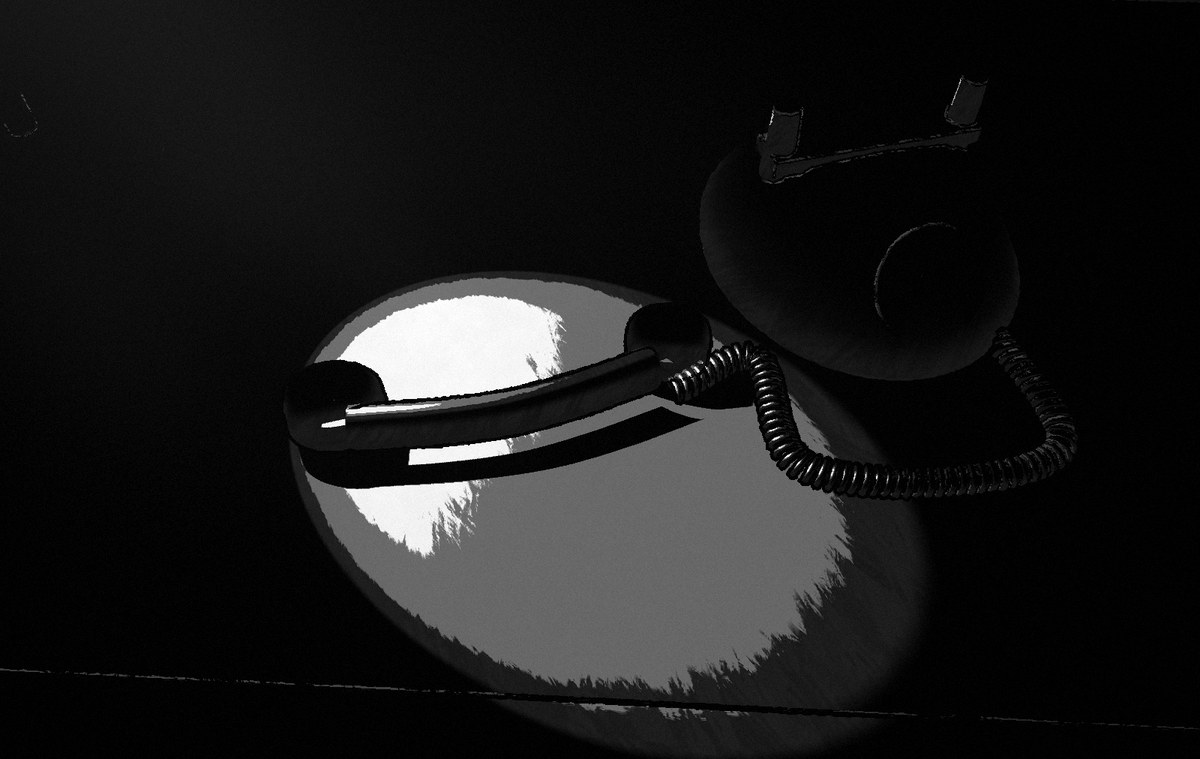
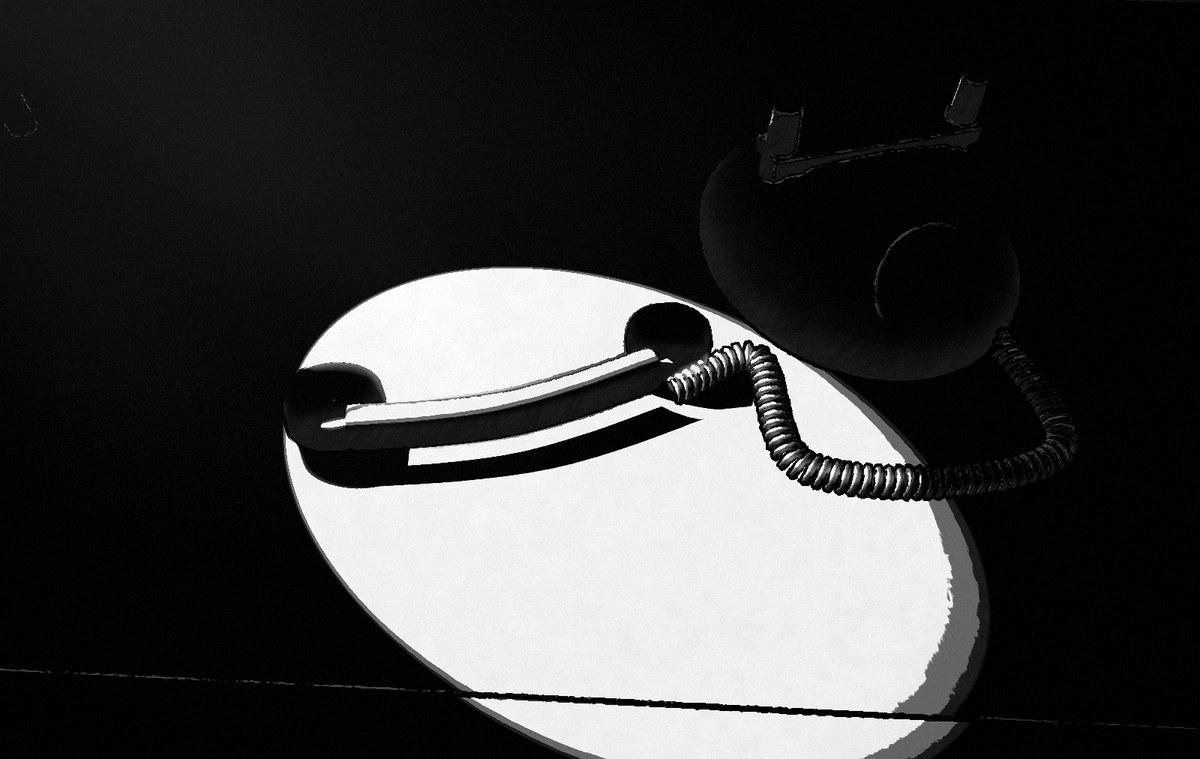
C11: the opening's stills (the telephone on a hard white pool, the receiver an ink shape; the windscreen lit by the neon: the drops, the wiper's arc, my knuckles on the wheel); III's corridor darker between its globes, their pools harder

Changed region(s): [[0.2158, 0.3333, 0.8325, 1.0]]

diff --git a/src/debug/shots/C9_stills.js b/src/debug/shots/C9_stills.js
@@ -30,10 +30,10 @@ function place(stage, kind, at, { yaw = 0, rx = 0, rz = 0, variant = null, scale
   return p;
 }
 // a hard light: a spot lamp of the stage's pool (its cone seen or not)
-function spot(stage, from, to, { half = 0.3, intensity = 60, cone = true, strength = 0.6, shadow = null, distance = null } = {}) {
+function spot(stage, from, to, { half = 0.3, intensity = 60, cone = true, strength = 0.6, shadow = null, distance = null, penumbra = 0.35 } = {}) {
   const ax = to.clone().sub(from).normalize();
   const L = stage.lamps.addCustom({ head: from.clone(), axis: ax, height: from.distanceTo(to) * 1.2, half, real: true, strength, tag: 'still' });
-  Object.assign(L.light, { intensity, angle: half, penumbra: 0.35, distance: distance ?? from.distanceTo(to) * 3 });
+  Object.assign(L.light, { intensity, angle: half, penumbra, distance: distance ?? from.distanceTo(to) * 3 });
   L.cone.visible = cone;
   L.priority = 10;
   if (shadow) L.shadow = shadow;
@@ -42,13 +42,13 @@ function spot(stage, from, to, { half = 0.3, intensity = 60, cone = true, streng
 
 // ---- 1. opening: A TIP. AMES. --------------------------------------------------------------
 // a desk lamp of the props, its light the pool's: from its bulb along its shade
-function deskLamp(S, at, yaw, { intensity = 30, half = 0.62, strength = 0.55, cone = true, reach = 1.2, target = null } = {}) {
+function deskLamp(S, at, yaw, { intensity = 30, half = 0.62, strength = 0.55, cone = true, reach = 1.2, target = null, penumbra = 0.35 } = {}) {
   if (target) yaw = Math.atan2(target.x - at.x, target.z - at.z);
   const p = place(S, 'deskLamp', at, { yaw });
   p.updateMatrixWorld(true);
   const head = p.userData.head.clone().applyMatrix4(p.matrixWorld);
   const ax = target ? target.clone().sub(head).normalize() : p.userData.axis.clone().transformDirection(p.matrixWorld);
-  const L = spot(S, head, head.clone().addScaledVector(ax, reach), { half, intensity, strength, cone, shadow: { radius: 2.5, near: 0.03 } });
+  const L = spot(S, head, head.clone().addScaledVector(ax, reach), { half, intensity, strength, cone, penumbra, shadow: { radius: 2.5, near: 0.03 } });
   return { prop: p, lamp: L };
 }
 // a coiled cord lying along a path (points on the desk): a helix round it
@@ -84,14 +84,20 @@ function tip(stage, camera, controller, game) {
   // the lamp on the left of the desk, its cone down onto the desk behind the
   // handset (the handset's shape black against the pool) and the phone
   const pool = V(N('px', -0.04), top, D.z + N('pz', 0.1));
-  deskLamp(S, V(N('lx', -0.42), top, D.z + N('lz', -0.12)), 0, { intensity: N('li', 6), half: N('lh', 0.3), reach: 0.6, strength: 0.8, target: pool });
+  // ([C11] a hard pool: 6 -> 26, its edge 0.35 -> 0.08 - the art director
+  // read the pool mid-grey; paper white now, ink round it)
+  deskLamp(S, V(N('lx', -0.42), top, D.z + N('lz', -0.12)), 0, { intensity: N('li', 26), half: N('lh', 0.3), reach: 0.6, strength: 0.8, target: pool, penumbra: N('lp', 0.08) });
   const base = place(S, 'deskPhone', V(N('bx', 0.17), top, D.z + N('bz', -0.07)), { yaw: N('by', 0.3), variant: 'empty' });
   // (the dome's gloss a little duller: the lamp's spot on it was the brightest thing in the panel)
   base.traverse((o) => { if (o.isMesh && o.material && o.material.roughness != null) { o.material = o.material.clone(); o.material.roughness = Math.max(o.material.roughness, N('br', 0.55)); } });
   // the handset across the desk on its side (its profile up to the eye:
   // the bar and the two cups), the ear cup to the left
   const yw = Math.PI / 2 + N('hy', 0.3);
-  place(S, 'handset', hs, { yaw: yw, rz: N('hr', Math.PI / 2) });
+  const hset = place(S, 'handset', hs, { yaw: yw, rz: N('hr', Math.PI / 2) });
+  // ([C11] matte: its bakelite's gloss printed as pale stripes along the
+  // bar and the cups, and the shape read crude - now an ink shape on the
+  // white pool, the lamp's one rim along its top)
+  hset.traverse((o) => { if (o.isMesh && o.material && o.material.roughness != null) { o.material = o.material.clone(); o.material.roughness = N('hm', 0.9); if (o.material.envMapIntensity != null) o.material.envMapIntensity = 0.05; o.material.color.multiplyScalar(0.6); } });
   // the cord from the mouth cup back to the base, coiled, lying on the desk
   const ax = V(Math.sin(yw), 0, Math.cos(yw));
   const m = hs.clone().addScaledVector(ax, 0.1); m.y = top;
@@ -323,14 +329,22 @@ function neon(stage, camera, controller, game) {
   darkStreet(S);
   neonSign(S, V(-95.3, N('ny', 2.75), N('nz', 19)), V(0, 0, 1), { H: N('nh', 0.9) });
   const cab = new Cabin(game);
-  cab.attach(car, { pitch: N('pp', -0.1), fov: N('fv', 32) });
+  // ([C11] lower and a little wider, -0.1 / 32 -> -0.2 / 41: my knuckles
+  // on the wheel in the frame's foot, the sign still at its head)
+  cab.attach(car, { pitch: N('pp', -0.2), fov: N('fv', 41) });
   // (the chrome inside dulled: the mirror's glass printed as a pale card)
   if (N('dc', 1) > 0) car.body.traverse((o) => {
     const m = o.isMesh && o.material;
     if (m && !Array.isArray(m) && m.metalness > 0.5) { o.material = m.clone(); o.material.envMapIntensity = 0.05; o.material.color.multiplyScalar(0.3); }
   });
-  game.scripts.push((t, dt) => { cab.step(dt); cab.screen.mat.uniforms.uRain.value = 1; cab.screen.mat.uniforms.uLit.value = N('ul', 0.45); });
-  game.pipeline.exposureOverride = N('xp', 0.6);
+  // ([C11] the art director: too dark - the neon lights the drops on the
+  // glass (their flecks white, the wiper's arc the clear sweep through
+  // them: uLit 0.45 -> 1.3) and a light from the sign falls through the
+  // glass on the bonnet, the wiper and my knuckles on the wheel (their rim);
+  // the exposure a step up, 0.6 -> 0.72)
+  spot(S, V(-95.4, N('sy', 2.4), 19.4), V(N('sx', -96.3), 1.0, 33.4), { half: N('sh', 0.16), intensity: N('si', 420), cone: false, strength: 0.9, distance: 30, penumbra: 0.5 });
+  game.scripts.push((t, dt) => { cab.step(dt); cab.screen.mat.uniforms.uRain.value = 1; cab.screen.mat.uniforms.uLit.value = N('ul', 1.3); });
+  game.pipeline.exposureOverride = N('xp', 0.72);
 }
 
 // ---- 5. diner: THE DINER. ------------------------------------------------------------------

diff --git a/src/stages/office/parts/room.js b/src/stages/office/parts/room.js
@@ -105,12 +105,14 @@ export default {
     const globe = (L, i, I) => {
       const head = V(L.x, CORR.ceil - 0.36, L.z);
       const lamp = lamps.addCustom({ head, axis: V(0, -1, 0), height: CORR.ceil - 0.36, half: 0.8, real: true, bulb: suite.globes[i], fadeEnd: 0.85, edgeSoft: 0.5, strength: 0.45, tag: 'corridor' });
-      Object.assign(lamp.light, { intensity: I, angle: 1.0, penumbra: 0.95, distance: 7 });
+      // ([C11] harder pools, penumbra 0.95 -> 0.6 (the far one 20 -> 22): the
+      // chapter's first frame read an even grey corridor)
+      Object.assign(lamp.light, { intensity: I, angle: 1.0, penumbra: 0.6, distance: 7 });
       lamp.priority = (eye) => (eye.x < OUTER.x0 + 0.5 ? 6 : 2.5);
       suite.globes[i].userData.lamp = lamp;
       return lamp;
     };
-    const corrLamp = globe(CORR_LAMP, 0, 20), corrLamp2 = globe(CORR_LAMP2, 1, 15);
+    const corrLamp = globe(CORR_LAMP, 0, 22), corrLamp2 = globe(CORR_LAMP2, 1, 15);
     // the outer office's one bulb: a pendant over the middle of it (dim: the frosted door glows brighter)
     kit.piece();
     const OX = (OUTER.x0 + OUTER.x1) / 2 - 0.2, OZ = 3.6;
@@ -171,7 +173,10 @@ export default {
     stage.addLook(shell.outerBox, { ...inside, ambient: 0.17, room: 'office' });
     stage.addLook(shell.r305Box, { ...inside, ambient: 0.13, haze: 0.5, room: 'office' });
     stage.addLook(shell.r306Box, { ...inside, ambient: 0.1, haze: 0.45, room: 'office' });
-    stage.addLook(shell.corrBox, { ...inside, ambient: 0.18, haze: 0.45, room: 'corridor' });
+    // ([C11] ambient 0.18 -> 0.07, haze 0.45 -> 0.2: the walls between the
+    // globes fall toward ink, the ceiling dark - III's first frame was the
+    // most even grey of the chapters' first beats)
+    stage.addLook(shell.corrBox, { ...inside, ambient: 0.07, haze: 0.2, room: 'corridor' });
     stage.addLook(shell.wcBox, { ...inside, ambient: 0.14, haze: 0.4, room: 'corridor' });
     stage.addLook(shell.landBox, { ...inside, ambient: 0.13, haze: 0.4, room: 'corridor' });
     stage.addLook(shell.liftBox, { ...inside, ambient: 0.15, haze: 0.4, room: 'corridor' });
